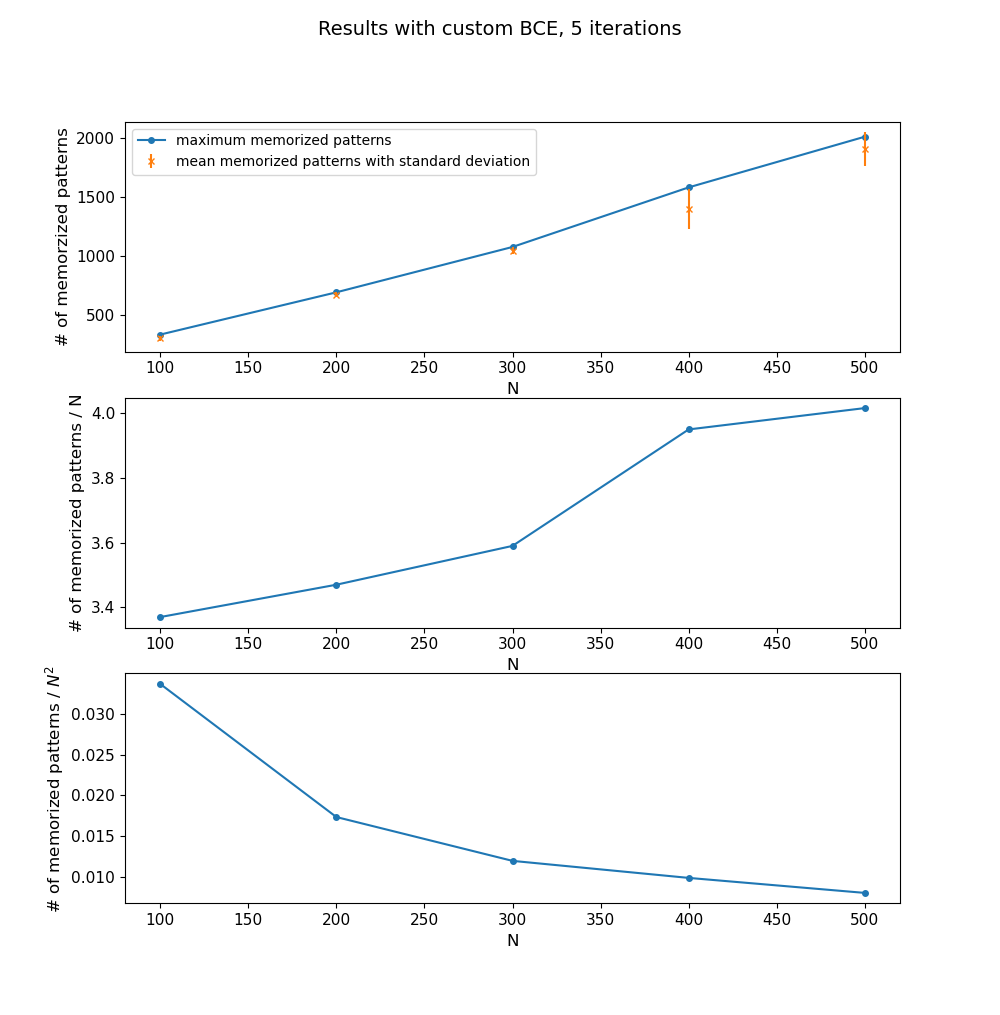
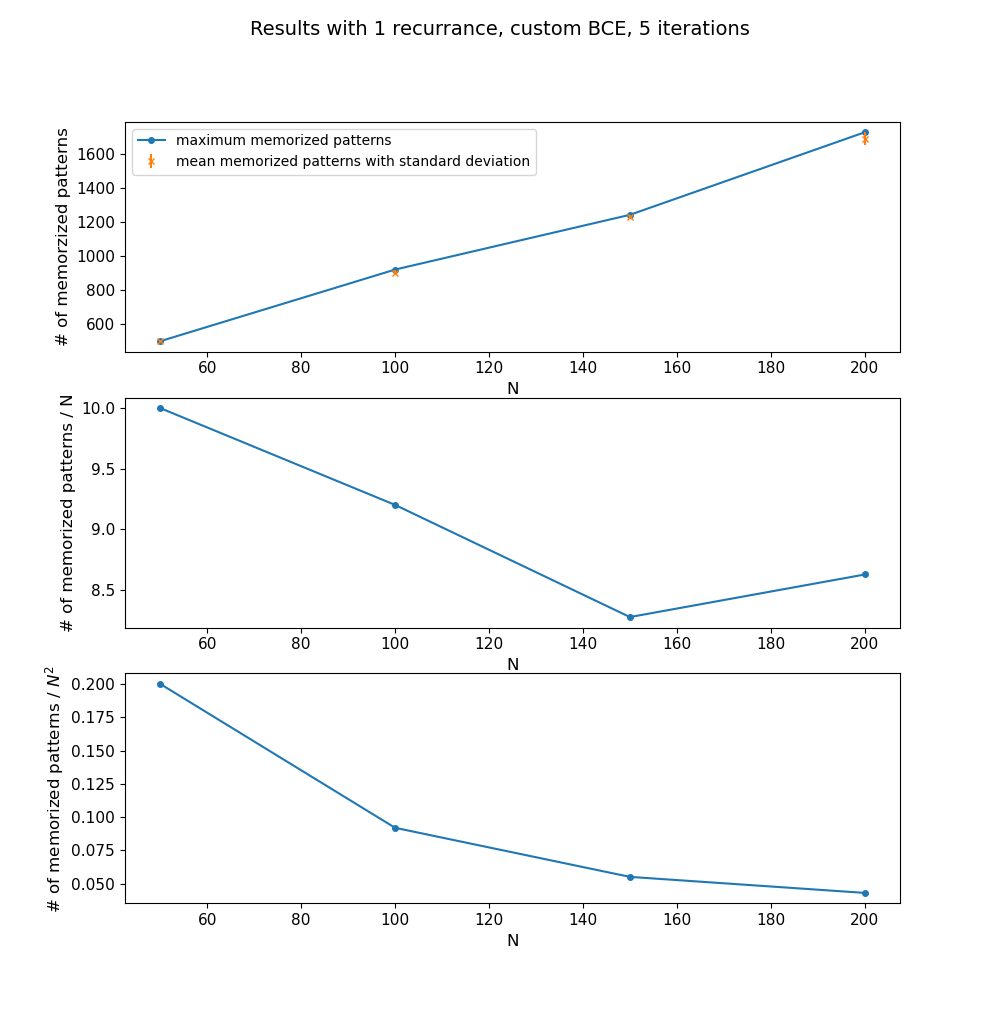
added recurrent results, added plots and added combined plots

diff --git a/memoryPlot.py b/memoryPlot.py
@@ -18,48 +18,48 @@ variance_iterations = 5
 ############### simple loss ############
 sparsity = 0.1
 
-N = []
-number_of_patterns = []
-mean_of_patterns = []
-std = []
+N_simple = []
+number_of_patterns_simple = []
+mean_of_patterns_simple = []
+std_simple = []
 dataset_size = []
 
-N.append(100)
-number_of_patterns.append(283)
-mean_of_patterns.append(243)
-std.append(23.95)
+N_simple.append(100)
+number_of_patterns_simple.append(283)
+mean_of_patterns_simple.append(243)
+std_simple.append(23.95)
 dataset_size.append(300)
 
-N.append(200)
-number_of_patterns.append(580)
-mean_of_patterns.append(550)
-std.append(32)
+N_simple.append(200)
+number_of_patterns_simple.append(580)
+mean_of_patterns_simple.append(550)
+std_simple.append(32)
 dataset_size.append(600)
 
-N.append(300)
-number_of_patterns.append(897)
-mean_of_patterns.append(883.8)
-std.append(11.95)
+N_simple.append(300)
+number_of_patterns_simple.append(897)
+mean_of_patterns_simple.append(883.8)
+std_simple.append(11.95)
 dataset_size.append(900)
 
-N.append(400)
-number_of_patterns.append(1194)
-mean_of_patterns.append(1165.6)
-std.append(23.56)
+N_simple.append(400)
+number_of_patterns_simple.append(1194)
+mean_of_patterns_simple.append(1165.6)
+std_simple.append(23.56)
 dataset_size.append(1200)
 
-N.append(500)
-number_of_patterns.append(1494)
-mean_of_patterns.append(1486.8)
-std.append(7.93)
+N_simple.append(500)
+number_of_patterns_simple.append(1494)
+mean_of_patterns_simple.append(1486.8)
+std_simple.append(7.93)
 dataset_size.append(1500)
 
 plt.close("all")
 plt.figure(figsize=(10,15))
 plt.subplot(3, 1, 1)
 plt.suptitle("Results with BCE, {} iterations".format(variance_iterations), fontsize=14)
-plt.plot(N, number_of_patterns, marker = 'o', ms = 4, label="maximum memorized patterns")
-plt.errorbar(N, mean_of_patterns, std, linestyle='None', marker = 'x', ms = 4, label="mean memorized patterns with standard deviation")
+plt.plot(N_simple, number_of_patterns_simple, marker = 'o', ms = 4, label="maximum memorized patterns")
+plt.errorbar(N_simple, mean_of_patterns_simple, std_simple, linestyle='None', marker = 'x', ms = 4, label="mean memorized patterns with standard deviation")
 plt.legend(loc="upper left")
 # plt.title("", fontsize=14)
 plt.ylabel("# of memorzized patterns", fontsize=12)
@@ -67,14 +67,14 @@ plt.xlabel("N", fontsize=12)
 plt.tick_params(axis='both', labelsize=11)
 
 plt.subplot(3, 1, 2)
-plt.plot(N, [i / j for i, j in zip(number_of_patterns, N)], marker = 'o', ms = 4)
+plt.plot(N_simple, [i / j for i, j in zip(number_of_patterns_simple, N_simple)], marker = 'o', ms = 4)
 # plt.title("", fontsize=14)
 plt.ylabel("# of memorized patterns / N", fontsize=12)
 plt.xlabel("N", fontsize=12)
 plt.tick_params(axis='both', labelsize=11)
 
 plt.subplot(3, 1, 3)
-plt.plot(N, [i / j**2 for i, j in zip(number_of_patterns, N)], marker = 'o', ms = 4)
+plt.plot(N_simple, [i / j**2 for i, j in zip(number_of_patterns_simple, N_simple)], marker = 'o', ms = 4)
 # plt.title("", fontsize=14)
 plt.ylabel("# of memorized patterns / $N^2$", fontsize=12)
 plt.xlabel("N", fontsize=12)
@@ -86,42 +86,42 @@ plt.savefig("bceResult" + ".png")
 ##### custom loss ###############
 tolerance = 0.1
 sparsity = 0.1
-N = []
-number_of_patterns = []
-mean_of_patterns = []
-std = []
+N_custom_loss = []
+number_of_patterns_custom_loss = []
+mean_of_patterns_custom_loss = []
+std_custom_loss = []
 dataset_size = []
 
-N.append(100)
-number_of_patterns.append(337)
-mean_of_patterns.append(305)
-std.append(24)
+N_custom_loss.append(100)
+number_of_patterns_custom_loss.append(337)
+mean_of_patterns_custom_loss.append(305)
+std_custom_loss.append(24)
 dataset_size.append(350)
 
-N.append(200)
-number_of_patterns.append(694)
-mean_of_patterns.append(674.8)
-std.append(20.7)
+N_custom_loss.append(200)
+number_of_patterns_custom_loss.append(694)
+mean_of_patterns_custom_loss.append(674.8)
+std_custom_loss.append(20.7)
 dataset_size.append(700)
 
-N.append(300)
-number_of_patterns.append(1077)
-mean_of_patterns.append(1046)
-std.append(26.56)
+N_custom_loss.append(300)
+number_of_patterns_custom_loss.append(1077)
+mean_of_patterns_custom_loss.append(1046)
+std_custom_loss.append(26.56)
 dataset_size.append(1100)
 
-N.append(400)
-number_of_patterns.append(1580)
-mean_of_patterns.append(1395.2)
-std.append(169)
+N_custom_loss.append(400)
+number_of_patterns_custom_loss.append(1580)
+mean_of_patterns_custom_loss.append(1395.2)
+std_custom_loss.append(169)
 dataset_size.append(1600)
 # !!! mit viel mehr epochs kann man manchmal noch 100 weiter rauf gehn, aber es wird immer schwueriger
 #  1500/200 auf 1600/600...
 
-N.append(500)
-number_of_patterns.append(2008)
-mean_of_patterns.append(1904)
-std.append(141.7)
+N_custom_loss.append(500)
+number_of_patterns_custom_loss.append(2008)
+mean_of_patterns_custom_loss.append(1904)
+std_custom_loss.append(141.7)
 dataset_size.append(2100)
 # !!! 500 epochs... mby gehn 100 patterns mehr
 #  hab jetzt 700 epochen mit 2100 ds gemacht... besser, aber 100 von 2100 nicht erkannt
@@ -129,8 +129,8 @@ dataset_size.append(2100)
 plt.figure(figsize=(10,15))
 plt.subplot(3, 1, 1)
 plt.suptitle("Results with custom BCE, {} iterations".format(variance_iterations), fontsize=14)
-plt.plot(N, number_of_patterns, marker = 'o', ms = 4, label="maximum memorized patterns")
-plt.errorbar(N, mean_of_patterns, std, linestyle='None', marker = 'x', ms = 4, label="mean memorized patterns with standard deviation")
+plt.plot(N_custom_loss, number_of_patterns_custom_loss, marker = 'o', ms = 4, label="maximum memorized patterns")
+plt.errorbar(N_custom_loss, mean_of_patterns_custom_loss, std_custom_loss, linestyle='None', marker = 'x', ms = 4, label="mean memorized patterns with standard deviation")
 plt.legend(loc="upper left")
 # plt.title("", fontsize=14)
 plt.ylabel("# of memorzized patterns", fontsize=12)
@@ -138,16 +138,116 @@ plt.xlabel("N", fontsize=12)
 plt.tick_params(axis='both', labelsize=11)
 
 plt.subplot(3, 1, 2)
-plt.plot(N, [i / j for i, j in zip(number_of_patterns, N)], marker = 'o', ms = 4)
+plt.plot(N_custom_loss, [i / j for i, j in zip(number_of_patterns_custom_loss, N_custom_loss)], marker = 'o', ms = 4)
 # plt.title("", fontsize=14)
 plt.ylabel("# of memorized patterns / N", fontsize=12)
 plt.xlabel("N", fontsize=12)
 plt.tick_params(axis='both', labelsize=11)
 
 plt.subplot(3, 1, 3)
-plt.plot(N, [i / j**2 for i, j in zip(number_of_patterns, N)], marker = 'o', ms = 4)
+plt.plot(N_custom_loss, [i / j**2 for i, j in zip(number_of_patterns_custom_loss, N_custom_loss)], marker = 'o', ms = 4)
 # plt.title("", fontsize=14)
 plt.ylabel("# of memorized patterns / $N^2$", fontsize=12)
 plt.xlabel("N", fontsize=12)
 plt.tick_params(axis='both', labelsize=11)
 plt.savefig("customBceResult" + ".png")
+
+
+
+
+##### recurrent layer + custom loss ###############
+recurrances = 1
+N_recurrent = []
+number_of_patterns_recurrent = []
+mean_of_patterns_recurrent = []
+std_recurrent = []
+dataset_size = []
+
+N_recurrent.append(50)
+number_of_patterns_recurrent.append(500)
+mean_of_patterns_recurrent.append(500)
+std_recurrent.append(0)
+dataset_size.append(500)
+
+N_recurrent.append(100)
+number_of_patterns_recurrent.append(920)
+mean_of_patterns_recurrent.append(902.2)
+std_recurrent.append(12.5)
+dataset_size.append(1000)
+
+N_recurrent.append(150)
+number_of_patterns_recurrent.append(1241)
+mean_of_patterns_recurrent.append(1228)
+std_recurrent.append(9.27)
+dataset_size.append(1300)
+
+N_recurrent.append(200)
+number_of_patterns_recurrent.append(1725)
+mean_of_patterns_recurrent.append(1686.67)
+std_recurrent.append(37.93)
+dataset_size.append(2000)
+
+plt.figure(figsize=(10,15))
+plt.subplot(3, 1, 1)
+plt.suptitle("Results with {} recurrance, custom BCE, {} iterations".format(recurrances, variance_iterations), fontsize=14)
+plt.plot(N_recurrent, number_of_patterns_recurrent, marker = 'o', ms = 4, label="maximum memorized patterns")
+plt.errorbar(N_recurrent, mean_of_patterns_recurrent, std_recurrent, linestyle='None', marker = 'x', ms = 4, label="mean memorized patterns with standard deviation")
+plt.legend(loc="upper left")
+# plt.title("", fontsize=14)
+plt.ylabel("# of memorzized patterns", fontsize=12)
+plt.xlabel("N", fontsize=12)
+plt.tick_params(axis='both', labelsize=11)
+
+plt.subplot(3, 1, 2)
+plt.plot(N_recurrent, [i / j for i, j in zip(number_of_patterns_recurrent, N_recurrent)], marker = 'o', ms = 4)
+# plt.title("", fontsize=14)
+plt.ylabel("# of memorized patterns / N", fontsize=12)
+plt.xlabel("N", fontsize=12)
+plt.tick_params(axis='both', labelsize=11)
+
+plt.subplot(3, 1, 3)
+plt.plot(N_recurrent, [i / j**2 for i, j in zip(number_of_patterns_recurrent, N_recurrent)], marker = 'o', ms = 4)
+# plt.title("", fontsize=14)
+plt.ylabel("# of memorized patterns / $N^2$", fontsize=12)
+plt.xlabel("N", fontsize=12)
+plt.tick_params(axis='both', labelsize=11)
+plt.savefig("customBceResult" + ".png")
+
+
+
+# combined plot
+plt.figure(figsize=(10,15))
+plt.plot(N_simple, number_of_patterns_simple, marker = 'o', ms = 4, label="simple", color='blue')
+plt.errorbar(N_simple, mean_of_patterns_simple, std_simple, linestyle='None', marker = 'x', ms = 4, color='blue')
+plt.plot(N_custom_loss, number_of_patterns_custom_loss, marker = 'o', ms = 4, label="custom loss", color='green')
+plt.errorbar(N_custom_loss, mean_of_patterns_custom_loss, std_custom_loss, linestyle='None', marker = 'x', ms = 4, color='green')
+plt.plot(N_recurrent, number_of_patterns_recurrent, marker = 'o', ms = 4, label="custom loss + recurrent layer", color='red')
+plt.errorbar(N_recurrent, mean_of_patterns_recurrent, std_recurrent, linestyle='None', marker = 'x', ms = 4, color='red')
+plt.legend(loc="upper left")
+plt.title("Memorized patterns", fontsize=14)
+plt.ylabel("# of memorzized patterns", fontsize=12)
+plt.xlabel("N", fontsize=12)
+plt.tick_params(axis='both', labelsize=11)
+plt.savefig("combinedMemorizedPatterns" + ".png")
+
+plt.figure(figsize=(10,15))
+plt.plot(N_simple, [i / j for i, j in zip(number_of_patterns_simple, N_simple)], marker = 'o', ms = 4, label='simple', color='blue')
+plt.plot(N_custom_loss, [i / j for i, j in zip(number_of_patterns_custom_loss, N_custom_loss)], marker = 'o', ms = 4, label='custom loss', color='green')
+plt.plot(N_recurrent, [i / j for i, j in zip(number_of_patterns_recurrent, N_recurrent)], marker = 'o', ms = 4, label='custom loss + recurrent layer', color='red')
+plt.title("Memorized patterns per input neuron", fontsize=14)
+plt.legend(loc="upper left")
+plt.ylabel("# of memorized patterns / N", fontsize=12)
+plt.xlabel("N", fontsize=12)
+plt.tick_params(axis='both', labelsize=11)
+plt.savefig("combindedPatternPerN" + ".png")
+
+plt.figure(figsize=(10,15))
+plt.plot(N_simple, [i / j**2 for i, j in zip(number_of_patterns_simple, N_simple)], marker = 'o', ms = 4, label='simple', color='blue')
+plt.plot(N_custom_loss, [i / j**2 for i, j in zip(number_of_patterns_custom_loss, N_custom_loss)], marker = 'o', ms = 4, label='custom loss', color='green')
+plt.plot(N_recurrent, [i / j**2 for i, j in zip(number_of_patterns_recurrent, N_recurrent)], marker = 'o', ms = 4, label='custom loss + recurrent layer', color='red')
+plt.title("Memorized patterns per input neuron squared", fontsize=14)
+plt.legend(loc="upper left")
+plt.ylabel("# of memorized patterns / $N^2$", fontsize=12)
+plt.xlabel("N", fontsize=12)
+plt.tick_params(axis='both', labelsize=11)
+plt.savefig("combindedPatternPerN2" + ".png")
